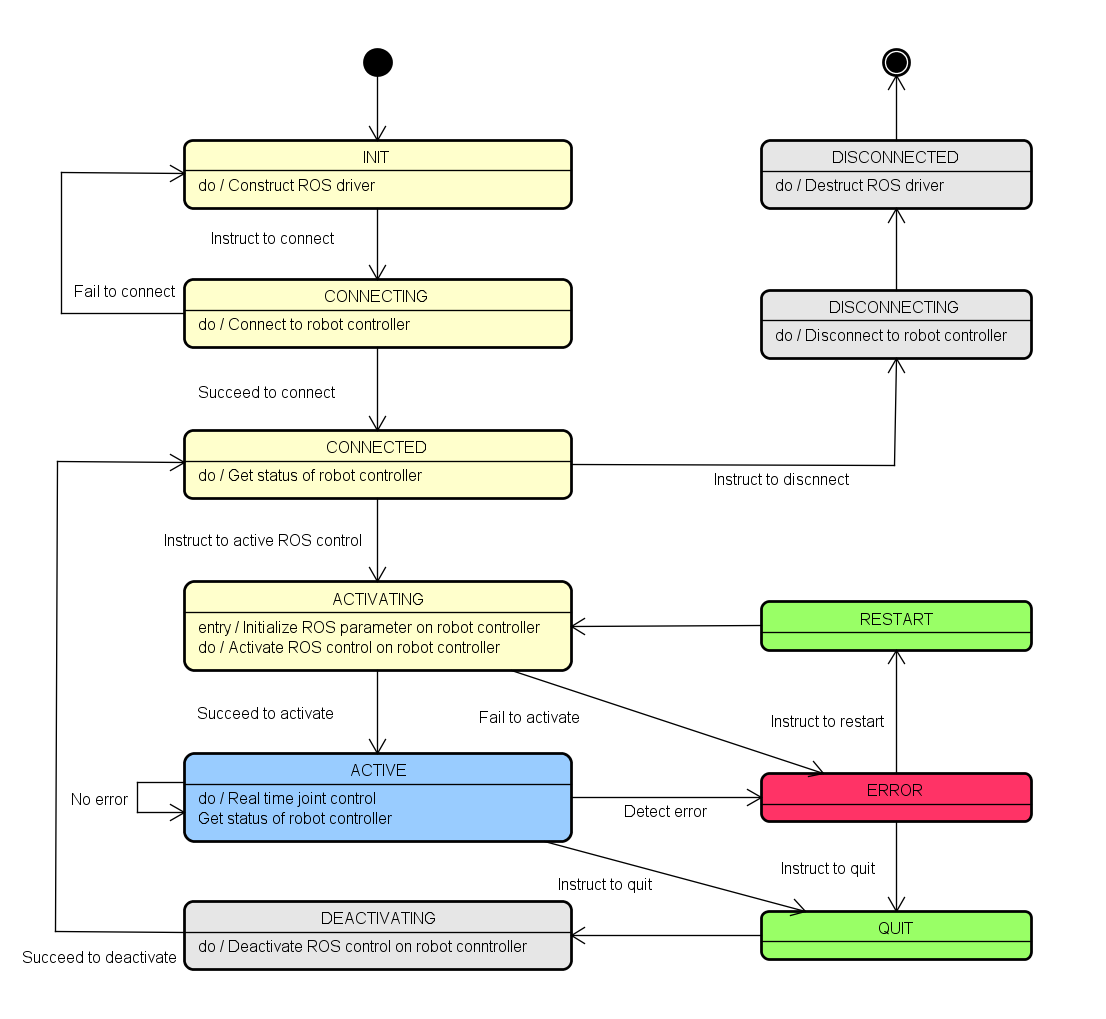
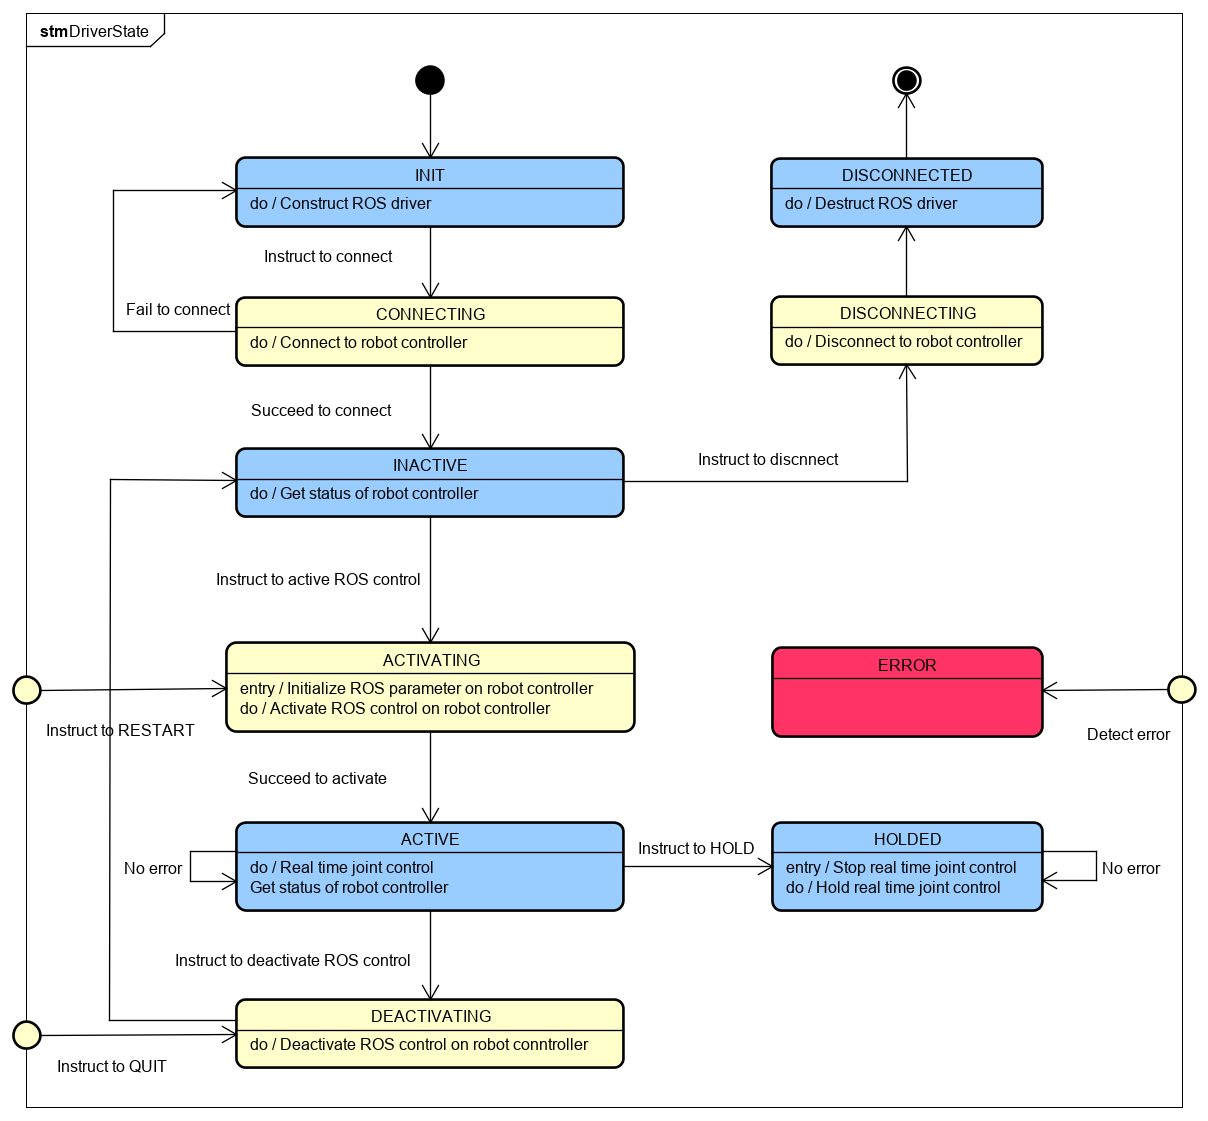
Add HOLDED state

diff --git a/khi_robot_control/src/khi_robot_krnx_driver.cpp b/khi_robot_control/src/khi_robot_krnx_driver.cpp
@@ -360,7 +360,7 @@ bool KhiRobotKrnxDriver::activate( const int cont_no, JointData *joint )
     }
 
     /* Sync RTC Position */
-    if ( !syncRtcPos( cont_no, joint ) )
+    if ( !syncRtcPos( cont_no ) )
     {
         errorPrint( "Failed to sync position" );
         setState( cont_no, ERROR );
@@ -422,6 +422,22 @@ bool KhiRobotKrnxDriver::activate( const int cont_no, JointData *joint )
     setState( cont_no, ACTIVE );
 
     return true;
+}
+
+bool KhiRobotKrnxDriver::hold( const int cont_no, const JointData joint )
+{
+    int state;
+    bool ret = true;
+
+    if ( !contLimitCheck( cont_no, KRNX_MAX_CONTROLLER ) ) { return false; }
+
+    state = getState( cont_no );
+    if ( state == ACTIVE )
+    {
+        ret = setState( cont_no, HOLDED );
+    }
+
+    return ret;
 }
 
 bool KhiRobotKrnxDriver::deactivate( const int cont_no )
@@ -897,7 +913,7 @@ bool KhiRobotKrnxDriver::loadRtcProg( const int cont_no, const std::string name 
     return true;
 }
 
-bool KhiRobotKrnxDriver::syncRtcPos( const int cont_no, JointData *joint )
+bool KhiRobotKrnxDriver::syncRtcPos( const int cont_no )
 {
     TKrnxCurMotionData motion_data = { 0 };
 
@@ -909,9 +925,9 @@ bool KhiRobotKrnxDriver::syncRtcPos( const int cont_no, JointData *joint )
 
         /* Driver */
         if ( !getCurMotionData( cont_no, ano, &motion_data ) ) { return false; }
-        for ( int jt = 0; jt < joint->joint_num; jt++ )
+        for ( int jt = 0; jt < p_rb_tbl[cont_no]->arm_tbl[ano].jt_num; jt++ )
         {
-            memcpy( &p_rb_tbl[cont_no]->arm_tbl[ano].jt_tbl[jt].home, &motion_data.ang_ref[jt], sizeof(motion_data.ang_ref[jt]) );
+            memcpy( &p_rb_tbl[cont_no]->arm_tbl[ano].jt_tbl[jt].home, &motion_data.ang[jt], sizeof(motion_data.ang[jt]) );
             if ( p_rb_tbl[cont_no]->arm_tbl[ano].jt_tbl[jt].type == TYPE_LINE )
             {
                 p_rb_tbl[cont_no]->arm_tbl[ano].jt_tbl[jt].home /= KHI_KRNX_M2MM;
@@ -933,6 +949,7 @@ bool KhiRobotKrnxDriver::commandHandler( khi_robot_msgs::KhiRobotCmd::Request &r
     const char del = ' ';
     int arg;
     int onoff;
+    int state;
     TKrnxIoInfo io;
 
     /* default */
@@ -960,17 +977,32 @@ bool KhiRobotKrnxDriver::commandHandler( khi_robot_msgs::KhiRobotCmd::Request &r
     }
     else if ( req.type == "driver" )
     {
+        state = getState( cont_no );
         if ( req.cmd == "get_status" )
         {
             res.cmd_ret = getStateName( cont_no );
         }
+        else if ( req.cmd == "hold" )
+        {
+            if ( state == ACTIVE )
+            {
+                setStateTrigger( cont_no, HOLD );
+            }
+            else
+            {
+                res.cmd_ret = "NOT ACTIVE STATE";
+            }
+        }
         else if ( req.cmd == "restart" )
         {
-            if ( ( getState( cont_no ) == INACTIVE ) || ( getState( cont_no ) == ERROR ) )
+            if ( ( state == INACTIVE ) || ( state == HOLDED ) || ( state == ERROR ) )
             {
                 setStateTrigger( cont_no, RESTART );
             }
-            else                                { res.cmd_ret = "NOT INACTIVE/ERROR STATE"; }
+            else
+            {
+                res.cmd_ret = "NOT INACTIVE/HOLDED/ERROR STATE";
+            }
         }
         else if ( req.cmd == "quit" )
         {

diff --git a/khi_robot_control/include/khi_robot_driver.h b/khi_robot_control/include/khi_robot_driver.h
@@ -72,6 +72,7 @@ enum KhiRobotState
     INACTIVE,
     ACTIVATING,
     ACTIVE,
+    HOLDED,
     DEACTIVATING,
     DISCONNECTING,
     DISCONNECTED,
@@ -86,6 +87,7 @@ const static std::string KhiRobotStateName[STATE_MAX] =
     "INACTIVE",
     "ACTIVATING",
     "ACTIVE",
+    "HOLDED",
     "DEACTIVATING",
     "DISCONNECTING",
     "DISCONNECTED",
@@ -97,6 +99,7 @@ enum KhiRobotStateTrigger
 {
     TRIGGER_MIN = -1,
     NONE,
+    HOLD,
     RESTART,
     QUIT,
     TRIGGER_MAX
@@ -104,6 +107,7 @@ enum KhiRobotStateTrigger
 const static std::string KhiRobotStateTriggerName[TRIGGER_MAX] =
 {
     "NONE",
+    "HOLD",
     "RESTART",
     "QUIT"
 };
@@ -296,6 +300,7 @@ public:
     virtual bool open( const int cont_no, const std::string ip_address ) = 0;
     virtual bool close( const int cont_no ) = 0;
     virtual bool activate( const int cont_no, JointData *joint ) = 0;
+    virtual bool hold( const int cont_no, const JointData joint ) = 0;
     virtual bool deactivate( const int cont_no ) = 0;
     virtual bool readData( const int cont_no, JointData *joint ) = 0;
     virtual bool writeData( const int cont_no, JointData joint ) = 0;

diff --git a/khi_robot_control/include/khi_robot_krnx_driver.h b/khi_robot_control/include/khi_robot_krnx_driver.h
@@ -82,6 +82,7 @@ public:
     bool open( const int cont_no, const std::string ip_address );
     bool close( const int cont_no );
     bool activate( const int cont_no, JointData *joint );
+    bool hold( const int cont_no, const JointData joint );
     bool deactivate( const int cont_no );
     bool readData( const int cont_no, JointData *joint );
     bool writeData( const int cont_no, JointData joint );
@@ -111,7 +112,7 @@ private:
     std::vector<std::string> splitString( const std::string str, const char del );
     bool loadDriverParam( const int cont_no );
     bool loadRtcProg( const int cont_no, const std::string name );
-    bool syncRtcPos( const int cont_no, JointData *joint );
+    bool syncRtcPos( const int cont_no );
 };
 
 } // namespace

diff --git a/khi_robot_control/src/main.cpp b/khi_robot_control/src/main.cpp
@@ -366,7 +366,12 @@ void *controlLoop( void* )
             /* Robot State */
             robot.updateState();
             state_trigger = robot.getStateTrigger();
-            if ( state_trigger == khi_robot_control::RESTART )
+            if ( state_trigger == khi_robot_control::HOLD )
+            {
+                robot.hold();
+                continue;
+            }
+            else if ( state_trigger == khi_robot_control::RESTART )
             {
                 if ( activate( &robot, &cm, &tick ) )
                 {

diff --git a/khi_robot_control/src/khi_robot_client.cpp b/khi_robot_control/src/khi_robot_client.cpp
@@ -75,6 +75,13 @@ bool KhiRobotClient::activate( JointData *joint )
     return driver->activate( cont_no, joint );
 }
 
+bool KhiRobotClient::hold( const JointData joint )
+{
+    if ( driver == NULL ) { return false; }
+
+    return driver->hold( cont_no, joint );
+}
+
 void KhiRobotClient::deactivate()
 {
     if ( driver == NULL ) { return; }

diff --git a/khi_robot_control/include/khi_robot_hardware_interface.h b/khi_robot_control/include/khi_robot_hardware_interface.h
@@ -53,6 +53,7 @@ public:
 
     bool open( std::string robot_name, std::string ip_address, double period, bool in_simulation = false );
     bool activate();
+    bool hold();
     void deactivate();
     void close();
     void read( const ros::Time time, const ros::Duration period );

diff --git a/khi_robot_control/src/khi_robot_hardware_interface.cpp b/khi_robot_control/src/khi_robot_hardware_interface.cpp
@@ -102,6 +102,11 @@ bool KhiRobotHardwareInterface::activate()
     return client->activate( &joint );
 }
 
+bool KhiRobotHardwareInterface::hold()
+{
+    return client->hold( joint );
+}
+
 void KhiRobotHardwareInterface::deactivate()
 {
     client->deactivate();

diff --git a/khi_robot_control/include/khi_robot_client.h b/khi_robot_control/include/khi_robot_client.h
@@ -50,6 +50,7 @@ public:
 
     bool open( std::string robot, std::string ip, double period, JointData joint, bool in_simulation = false );
     bool activate( JointData *joint );
+    bool hold( const JointData joint );
     void deactivate();
     void close();
 

diff --git a/docs/ConnectingRealRobot.md b/docs/ConnectingRealRobot.md
@@ -98,12 +98,11 @@ To control robot controller on ROS, the drivere has control states.
 2:  "CONNECTED"       - Driver is connected to Robot Controller, but cannot control Robot Arm.
 3:  "ACTIVATING"      - Driver is now activating Robot Arm.
 4:  "ACTIVE"          - Driver can control Robot Arm.
-5:  "DEACTIVATING"    - Driver is now deactivating Robot Arm.
-6:  "DISCONNECTING"   - Driver is now disconnecting to Robot Controller.
-7:  "DISCONNECTED"    - Driver is disconnected to Robot Controller.
-8:  "ERROR"           - Driver halted due to ERROR.
-9:  "RESTART"         - Driver accepts restart instruction.
-10: "QUIT"            - Driver accepts quit instruction.
+5:  "HOLDED"          - Driver is holded. Driver doesn't move Robot Arm.
+6:  "DEACTIVATING"    - Driver is now deactivating Robot Arm.
+7:  "DISCONNECTING"   - Driver is now disconnecting to Robot Controller.
+8:  "DISCONNECTED"    - Driver is disconnected to Robot Controller.
+9:  "ERROR"           - Driver halted due to ERROR.
 ```
 
 You can get this status by Command Service "get_status".
@@ -183,6 +182,17 @@ string cmd -> "get_status"
 int32 driver_ret -> driver's return code. Refer KRNX_E_*** in krnx.h
 int32 as_ret -> AS return code. Refer AS manual.
 string cmd_ret -> Driver Status
+```
+
+### Hold Driver
+
+```text
+string type -> "driver"
+string cmd -> "hold"
+---
+int32 driver_ret -> driver's return code. Refer KRNX_E_*** in krnx.h
+int32 as_ret -> AS return code. Refer AS manual.
+string cmd_ret -> NOT USED
 ```
 
 ### Restart Driver for ACTIVE
